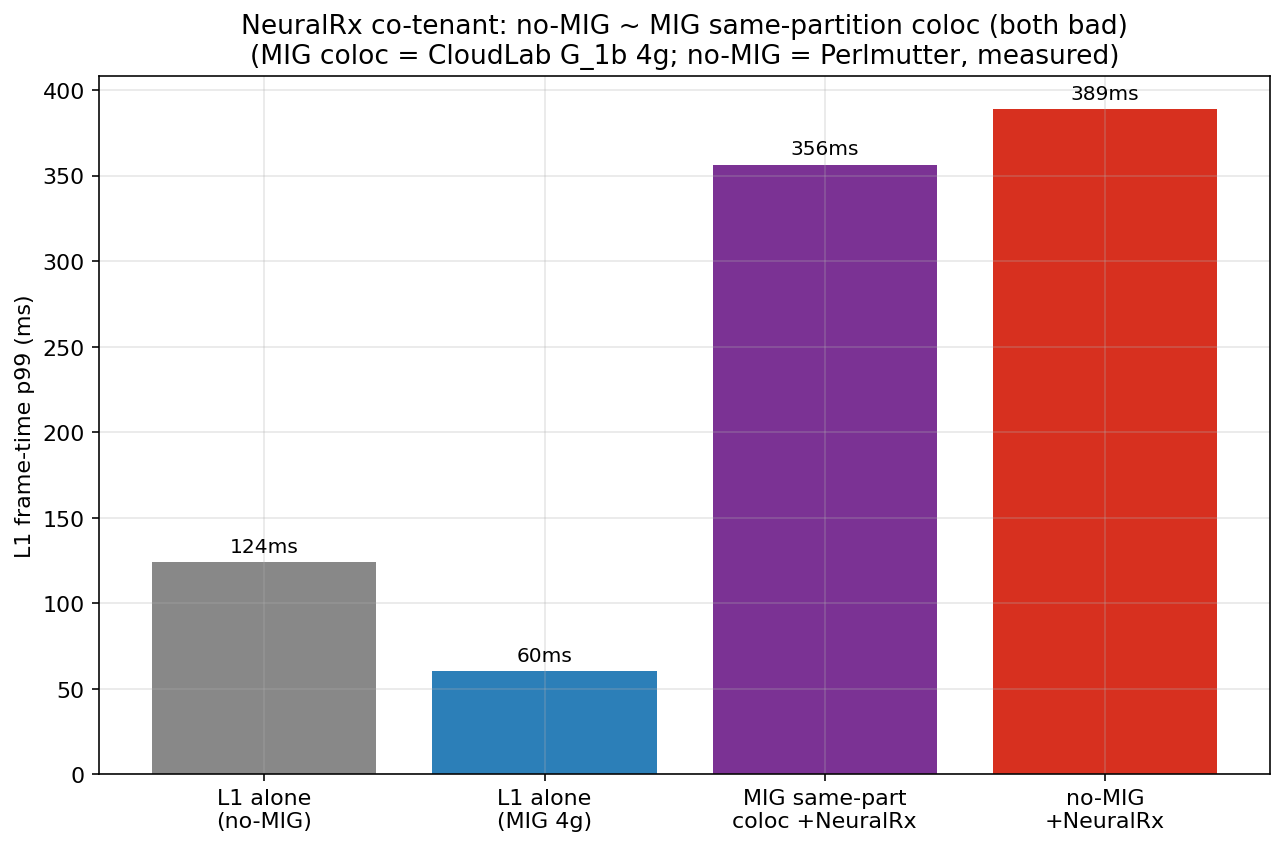
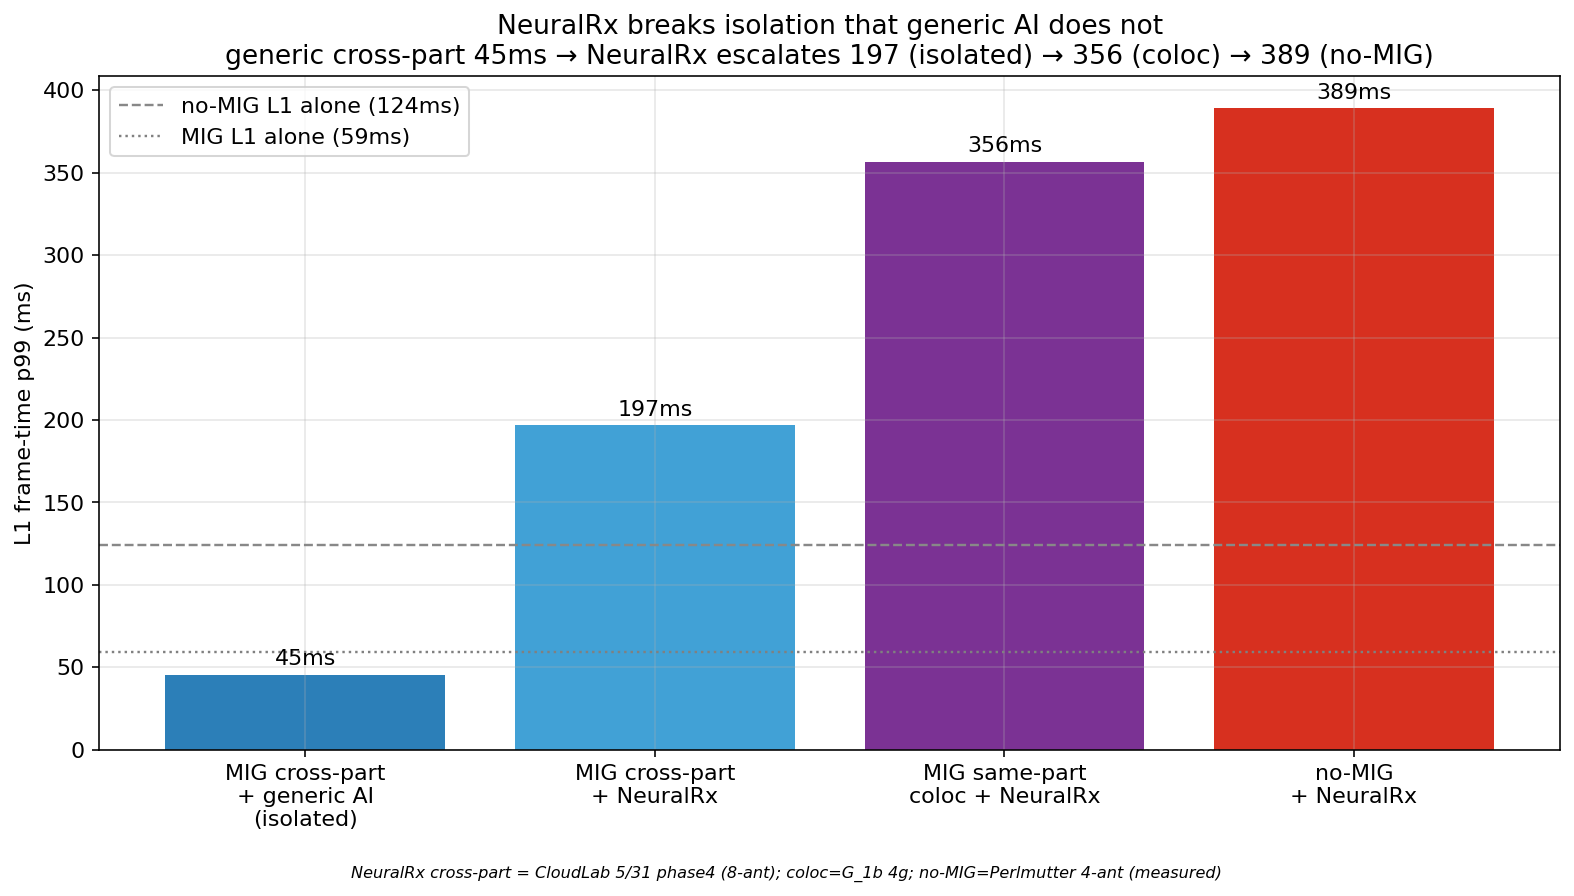
figF5: add MIG cross-partition NeuralRx (197ms) — isolation escalation
NeuralRx escalation across isolation levels now shown: generic cross-part 45 ->
NeuralRx cross-part 197 (isolated but still breaks, 5/31 phase4) -> coloc 356 ->
no-MIG 389. Shows NeuralRx is special: generic AI is contained by cross-partition
isolation but NeuralRx is not.

diff --git a/results/perlmutter_handoff/build_perlmutter_figures.py b/results/perlmutter_handoff/build_perlmutter_figures.py
@@ -123,17 +123,34 @@ for ax,(disp,nmlab,xplab) in zip(axes,[("alone","F_0_alone","F_0_alone"),
 axes[0].set_ylabel("CDF"); fig.suptitle("Frame-time distribution shifts right under no-MIG")
 fig.tight_layout(); fig.savefig(f"{OUT}/figF4_cdf_key_conditions.png"); plt.close(fig)
 
-# ===================== FIG 5: NeuralRx (real coloc data) =====================
-fig,ax=plt.subplots(figsize=(9,6))
+# ===================== FIG 5: NeuralRx escalation across isolation levels =====================
+fig,ax=plt.subplots(figsize=(11,6))
 nrx_nomig = p99(NOMIG,"realL1_F_E_neuralrx_run*.json")
-cases=["L1 alone\n(no-MIG)","L1 alone\n(MIG 4g)","MIG same-part\ncoloc +NeuralRx","no-MIG\n+NeuralRx"]
-vals=[nm_alone, coloc_alone, coloc_nrx, nrx_nomig]
-cols=[C_BASE,C_X,C_CO,C_NM]
+# generic AI cross-partition (isolated) reference = chanpred cross-part
+gen_xpart = p99(XPART,"realL1_F_E_chanpred_b64_run*.json")
+# MIG cross-partition + NeuralRx: only NeuralRx-cross-part data is 5/31 phase4 (8-ant).
+# Use mean-of-per-run-p99 to match the upper doc's 196.7ms.
+p4=[]
+for f in glob.glob(f"{R}/20260531/n20_phase4_neuralrx/run_*.json"):
+    try: p4.append(np.percentile(json.load(open(f))["raw_ms"],99))
+    except: pass
+nrx_xpart = float(np.mean(p4)) if p4 else 196.7
+cases=["MIG cross-part\n+ generic AI\n(isolated)","MIG cross-part\n+ NeuralRx",
+       "MIG same-part\ncoloc + NeuralRx","no-MIG\n+ NeuralRx"]
+vals=[gen_xpart, nrx_xpart, coloc_nrx, nrx_nomig]
+cols=[C_X,"#41a1d6",C_CO,C_NM]
 b=ax.bar(cases,vals,color=cols)
-for bb,v in zip(b,vals): ax.text(bb.get_x()+bb.get_width()/2,v+6,f"{v:.0f}ms",ha="center",fontsize=10)
+for bb,v in zip(b,vals): ax.text(bb.get_x()+bb.get_width()/2,v+6,f"{v:.0f}ms",ha="center",fontsize=11)
+ax.axhline(nm_alone,color=C_BASE,ls="--",lw=1.2,label=f"no-MIG L1 alone ({nm_alone:.0f}ms)")
+ax.axhline(xp_alone,color="gray",ls=":",lw=1.2,label=f"MIG L1 alone ({xp_alone:.0f}ms)")
 ax.set_ylabel("L1 frame-time p99 (ms)")
-ax.set_title("NeuralRx co-tenant: no-MIG ~ MIG same-partition coloc (both bad)\n(MIG coloc = CloudLab G_1b 4g; no-MIG = Perlmutter, measured)")
+ax.set_title("NeuralRx breaks isolation that generic AI does not\n"
+             "generic cross-part 45ms → NeuralRx escalates 197 (isolated) → 356 (coloc) → 389 (no-MIG)")
+ax.legend(loc="upper left")
+fig.text(0.5,-0.02,"NeuralRx cross-part = CloudLab 5/31 phase4 (8-ant); coloc=G_1b 4g; no-MIG=Perlmutter 4-ant (measured)",
+         ha="center",fontsize=8,style="italic")
 fig.tight_layout(); fig.savefig(f"{OUT}/figF5_neuralrx_focus.png"); plt.close(fig)
+print("NeuralRx: generic-xpart",round(gen_xpart,1),"nrx-xpart",round(nrx_xpart,1),"coloc",round(coloc_nrx,1),"no-MIG",round(nrx_nomig,1))
 
 # ===================== FIG 7: MIG is NOT flat — placement & bistability =====================
 fig,(axL,axR)=plt.subplots(1,2,figsize=(15,6),gridspec_kw={"width_ratios":[1.1,1]})

diff --git a/results/perlmutter_handoff/PERLMUTTER_NOMIG_VISUAL_EVIDENCE_KR.md b/results/perlmutter_handoff/PERLMUTTER_NOMIG_VISUAL_EVIDENCE_KR.md
@@ -121,12 +121,13 @@ NeuralRx는 L1과 같은 PHY 파이프라인을 공유하는 co-tenant라 가장
 
 | 케이스 | L1 p99 | 출처 |
 |---|---|---|
-| L1 alone (no-MIG full GPU) | 124ms | 본 측정 |
-| L1 alone (MIG 4g slice) | 60ms | CloudLab G_0b |
+| MIG cross-part + **generic** AI (격리) | **45ms** | F_saturation (chanpred 등) |
+| **MIG cross-part + NeuralRx** (격리해도!) | **197ms** | CloudLab 5/31 phase4 (상위 §2.2) |
 | **MIG same-partition coloc + NeuralRx** | **356ms** | CloudLab G_1b (4g) |
 | **no-MIG + NeuralRx** | **389ms** | **본 측정** |
+| (참고) L1 alone: no-MIG 124 / MIG 59 | — | baseline |
 
-→ **no-MIG(389ms)와 MIG coloc(356ms)은 사실상 동급.** AI를 L1과 같은 자원에 넣으면 MIG여도 격리가 무너진다. (MIG 3g coloc은 bimodal 265±144ms, 2g coloc은 370ms — 상위 §4.1 partition paradox.)
+→ **격리 수준별 escalation: 45(격리+generic) → 197(격리+NeuralRx) → 356(coloc) → 389(no-MIG).** generic AI는 cross-partition 격리로 45ms를 지키지만, **NeuralRx는 격리해도 197ms로 튄다(L1과 같은 PHY 패턴이라 partition을 넘어 간섭)**. 같은 파티션 coloc(356)·no-MIG(389)는 더 나쁘고 사실상 동급. (MIG 3g coloc은 bimodal — 상위 §4.1 partition paradox. cross-part 197은 8-ant 5/31 캠페인 값이라 절대치는 참고.)
 
 ---
 
